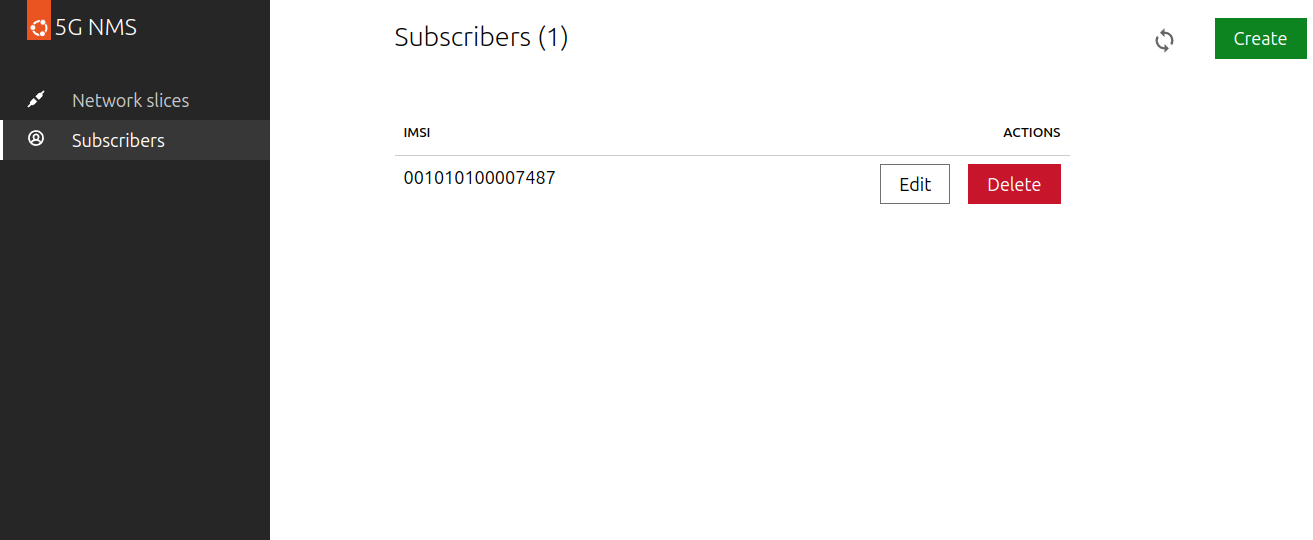
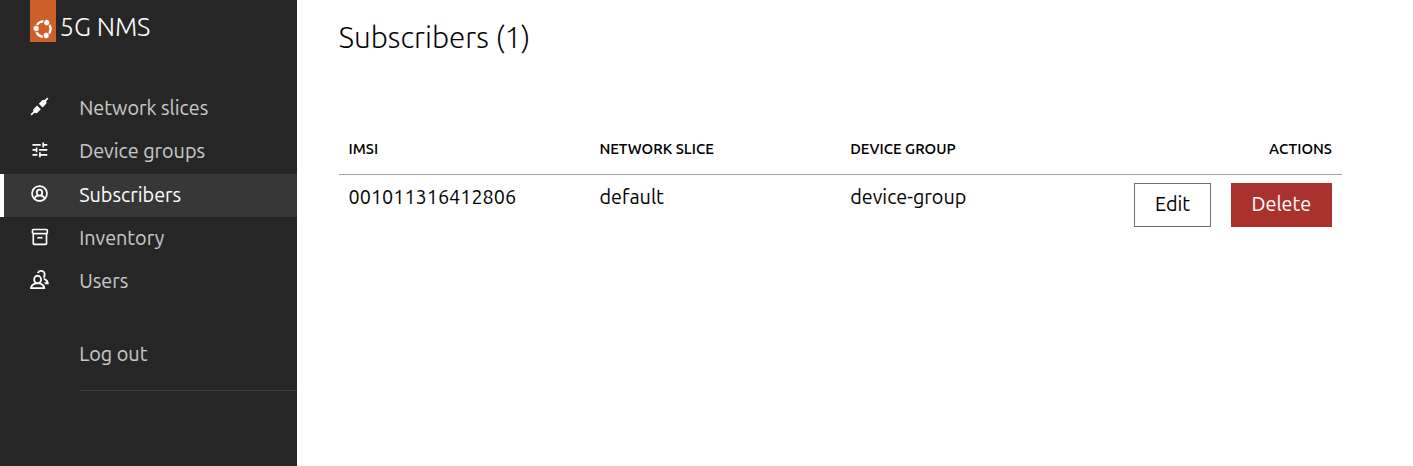
feat: update tutorials after SIM generation automation feature (#27)

diff --git a/docs/tutorials/getting_started.md b/docs/tutorials/getting_started.md
@@ -408,14 +408,10 @@ You should see the following device group created:
 
 Navigate to Subscribers and create a new subscriber with the following attributes:
 
-- IMSI: `001010100007487`
-- OPC: `981d464c7c52eb6e5036234984ad0bcf`
-- Key: `5122250214c33e723a5dd523fc145fc0`
-- Sequence Number: `16f3b3f70fc2`
 - Network Slice: `default`
 - Device Group: `device-group`
 
-You should see the following subscriber created:
+Click on the two `Generate` buttons to automatically fill in the IMSI, OPC, Key and Sequence Number. After clicking on the `Submit` button you should see the subscriber created:
 
 ```{image} ../images/nms_subscriber.png
 :alt: NMS Subscriber
